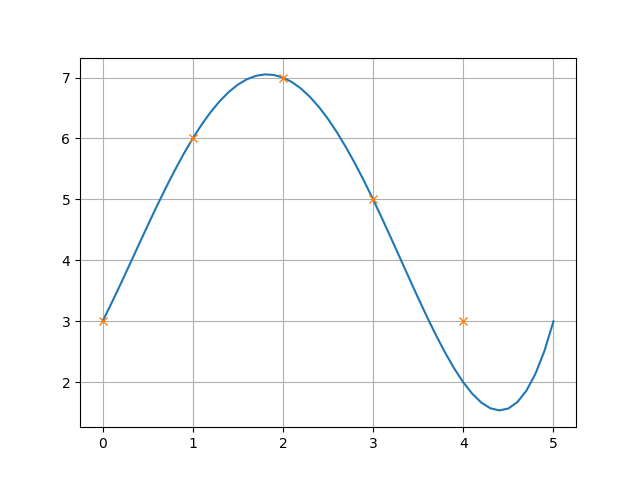
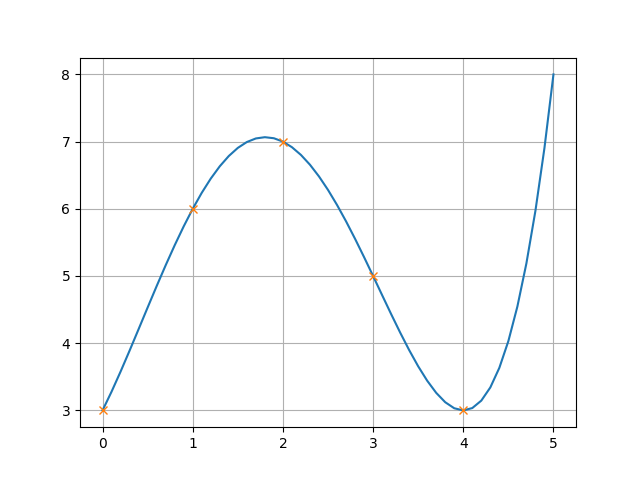
task3

diff --git a/UsefullScripts/funcEstimator/funcEst.cpp b/UsefullScripts/funcEstimator/funcEst.cpp
@@ -15,7 +15,7 @@ float P(float x, std::vector<float> dataX, std::vector<float> dataY)
     {
         float Iloczynup = 1;
         float Iloczyndown = 1;
-        for (int i = 0; i < dataX.size() - 1; i++)
+        for (int i = 0; i < dataX.size(); i++)
         {
             if (i == j)
             {
@@ -26,7 +26,7 @@ float P(float x, std::vector<float> dataX, std::vector<float> dataY)
                 Iloczynup *= x - dataX[i];
             }
         }
-        for (int i = 0; i < dataX.size() - 1; i++)
+        for (int i = 0; i < dataX.size(); i++)
         {
             if (i == j)
             {
